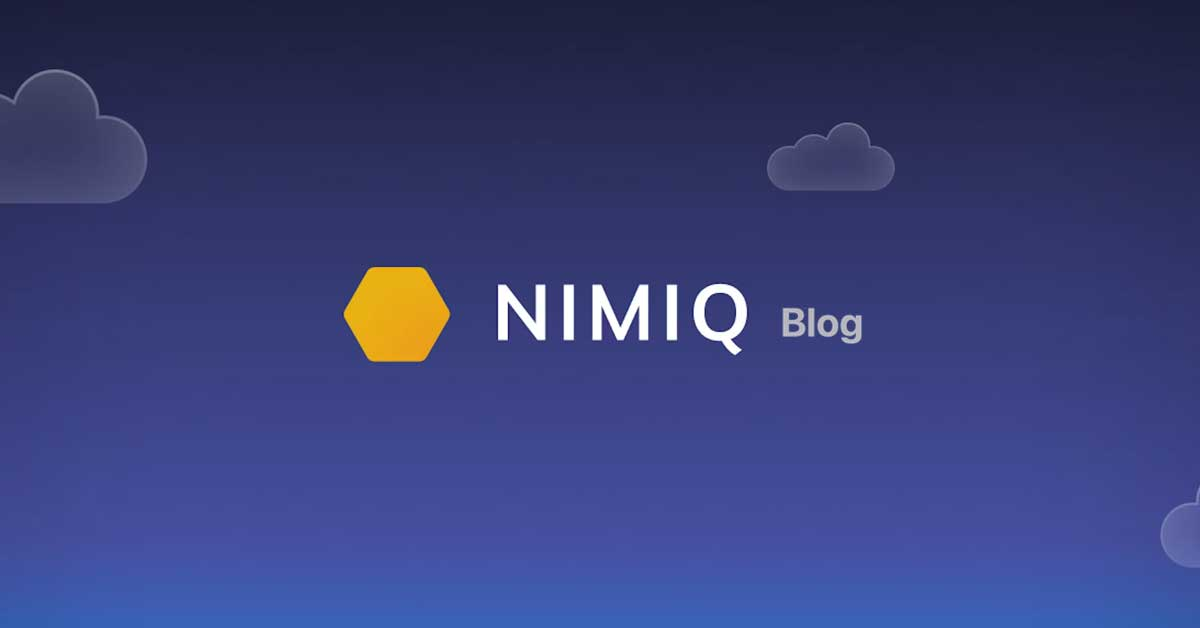
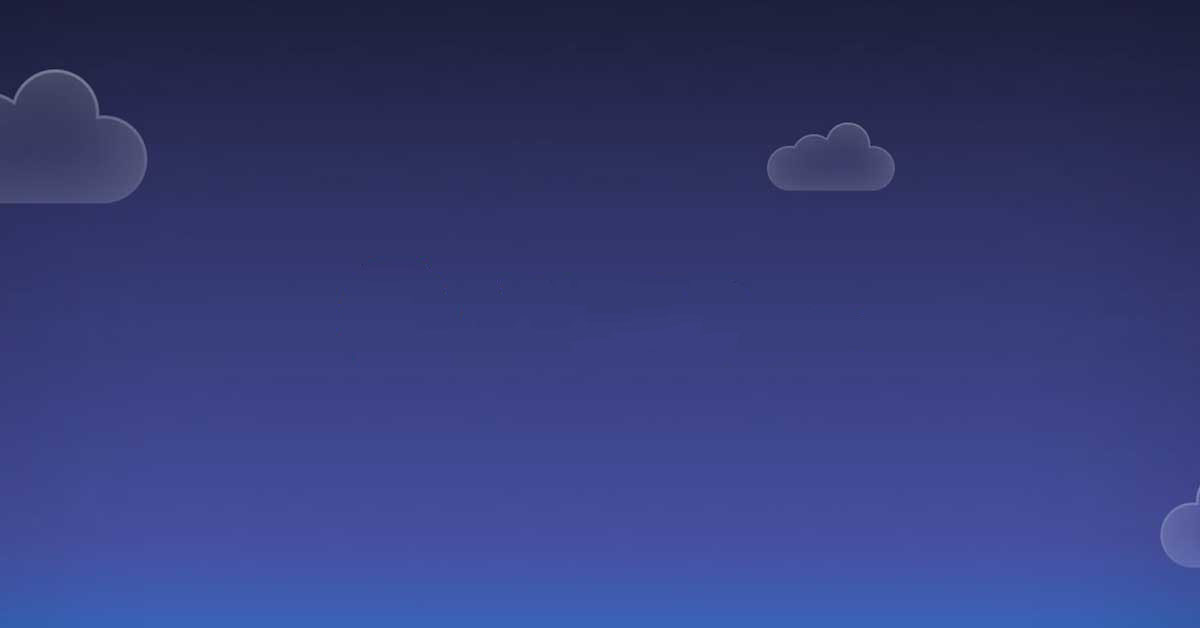
refactor(og-image): split into Page/Blog, add setOgImage, simplify props

Changed region(s): [[0.2775, 0.4236, 0.74, 0.6051]]

diff --git a/app/pages/[...uid].vue b/app/pages/[...uid].vue
@@ -45,10 +45,9 @@ definePageMeta({
 })
 
 const pageMeta = computed(() => ({
-  title: page.value?.data.meta_title || (isHome && 'Nimiq Website') || (page?.value?.slugs[0]?.replace("-", " ").replace(/\b\w/g, char => char.toUpperCase()))|| (uid.replace(/-/g, ' ').replace(/\b\w/g, char => char.toUpperCase())) || (isBlog && 'Blog - Nimiq Website')||'Nimiq Website',
+  title: page.value?.data.meta_title || (isHome && 'Nimiq Website') || (page?.value?.slugs[0]?.replace('-', ' ').replace(/\b\w/g, char => char.toUpperCase())) || (uid.replace(/-/g, ' ').replace(/\b\w/g, char => char.toUpperCase())) || (isBlog && 'Blog - Nimiq Website') || 'Nimiq Website',
   description: page.value?.data.meta_description || (isBlog && 'Stay updated with the latest news and articles from Nimiq') || 'The most accepted crypto in the World',
-  image: (isHome && '/assets/og-images/home.jpg') || (isBlog && '/assets/og-images/blog.jpg') || '/assets/og-images/page.jpg',
-  layout: (isHome && 'image') || 'overlay',
+  image: (isHome && '/assets/og-images/home.jpg') || (isBlog && '/assets/og-images/blog.jpg') || '/assets/og-images/page.png',
 }))
 
 useHead({
@@ -65,14 +64,10 @@ const draft = computed(() => page.value?.data && 'draft' in page.value.data && p
 
 const showSocialsHexagonBg = isHome
 
-
-defineOgImageComponent('OgMultilayout', {
+defineOgImageComponent('OgImagePage', {
   title: pageMeta.value.title,
-  description: pageMeta.value.description,
-  image: pageMeta.value.image,
-  layout: pageMeta.value.layout,
+  subline: pageMeta.value.description,
 })
-
 </script>
 
 <template>

diff --git a/app/pages/roadmap.vue b/app/pages/roadmap.vue
@@ -5,16 +5,14 @@ import { firstMonth, firstYear, layers, milestones } from '~/components/Roadmap/
 const headline = computed(() => ([{ type: 'heading1', text: 'Roadmap', spans: [] }] as TitleField))
 const subline = computed(() => ([{ type: 'paragraph', text: 'Browse the project\'s past and future. Click on milestones to learn more.', spans: [], direction: 'ltr' }] as RichTextField))
 useHead({
-  title: "Roadmap - Nimiq Website",
+  title: 'Roadmap - Nimiq Website',
   meta: [
     { name: 'description', content: 'Browse the project\'s past and future. Click on milestones to learn more.' },
   ],
 })
-defineOgImageComponent('OgMultilayout', {
-  title: "Roadmap",
-  description: 'Browse the project\'s past and future. Click on milestones to learn more.',
-  image: '/assets/og-images/page.jpg',
-  layout: 'overlay',
+defineOgImageComponent('OgImagePage', {
+  title: 'Roadmap',
+  subline: 'Browse the project\'s past and future. Click on milestones to learn more.',
 })
 </script>
 

diff --git a/app/pages/blog/[post].vue b/app/pages/blog/[post].vue
@@ -19,16 +19,15 @@ if (!post.value || (!showDrafts && post.value?.data.draft)) {
   throw createError({ statusCode: 404, statusMessage: 'Article not found', fatal: true })
 }
 
-const { readingTime, meta, draft /* , image */ } = getBlogMetadata(post.value!)
+const { readingTime, meta, draft, image } = getBlogMetadata(post.value!)
 
 useHead(meta)
 useSeoMeta({ ...meta, twitterTitle: meta.title, twitterDescription: meta.description, twitterCard: 'summary_large_image' })
 
-defineOgImageComponent('OgMultilayout', {
-  title: post?.value?.data?.title?.text,
-  description: post?.value?.data?.subline[0]?.text,
-  image: post.value.data.image.url,
-  layout: 'image', // 'image' | 'text' | 'overlay'
+setOgImage({
+  title: meta.title,
+  subline: meta.description,
+  image,
 })
 
 const articleRef = ref<HTMLElement>()

diff --git a/app/components/OgImage/OgImageBlog.vue b/app/components/OgImage/OgImageBlog.vue
@@ -1,0 +1,26 @@
+<script setup lang="ts">
+const { title = '', subline = '' } = defineProps<{
+  title?: string
+  subline?: string
+}>()
+</script>
+
+<template>
+  <div class="relative h-full flex flex-col justify-end bg-gray-100">
+    <img
+      class="absolute inset-0 h-full w-full object-cover"
+      src="/assets/og-images/blog.jpg"
+      :alt="title"
+      width="1200"
+      height="630"
+    >
+    <div class="px-24 py-24 text-white">
+      <h1 class="text-6xl font-bold">
+        {{ title }}
+      </h1>
+      <p class="text-4xl">
+        {{ subline }}
+      </p>
+    </div>
+  </div>
+</template>

diff --git a/app/components/OgImage/OgImagePage.vue b/app/components/OgImage/OgImagePage.vue
@@ -1,0 +1,26 @@
+<script setup lang="ts">
+const { title = '', subline = '' } = defineProps<{
+  title?: string
+  subline?: string
+}>()
+</script>
+
+<template>
+  <div class="relative h-full flex flex-col justify-end bg-gray-100">
+    <img
+      class="absolute inset-0 h-full w-full object-cover"
+      src="/assets/og-images/page.png"
+      :alt="title"
+      width="1200"
+      height="630"
+    >
+    <div class="px-24 py-24 text-white">
+      <h1 class="text-6xl font-bold">
+        {{ title }}
+      </h1>
+      <p class="text-4xl">
+        {{ subline }}
+      </p>
+    </div>
+  </div>
+</template>

diff --git a/app/utils/og-images.ts b/app/utils/og-images.ts
@@ -1,0 +1,11 @@
+export function setOgImage({ image, title, subline }: { image: object, title: string, subline: string }) {
+  if (hasImage(image)) {
+    defineOgImage({ url: image.url, alt: title })
+  }
+  else {
+    defineOgImageComponent('OgImageBlog', {
+      title,
+      subline,
+    })
+  }
+}
